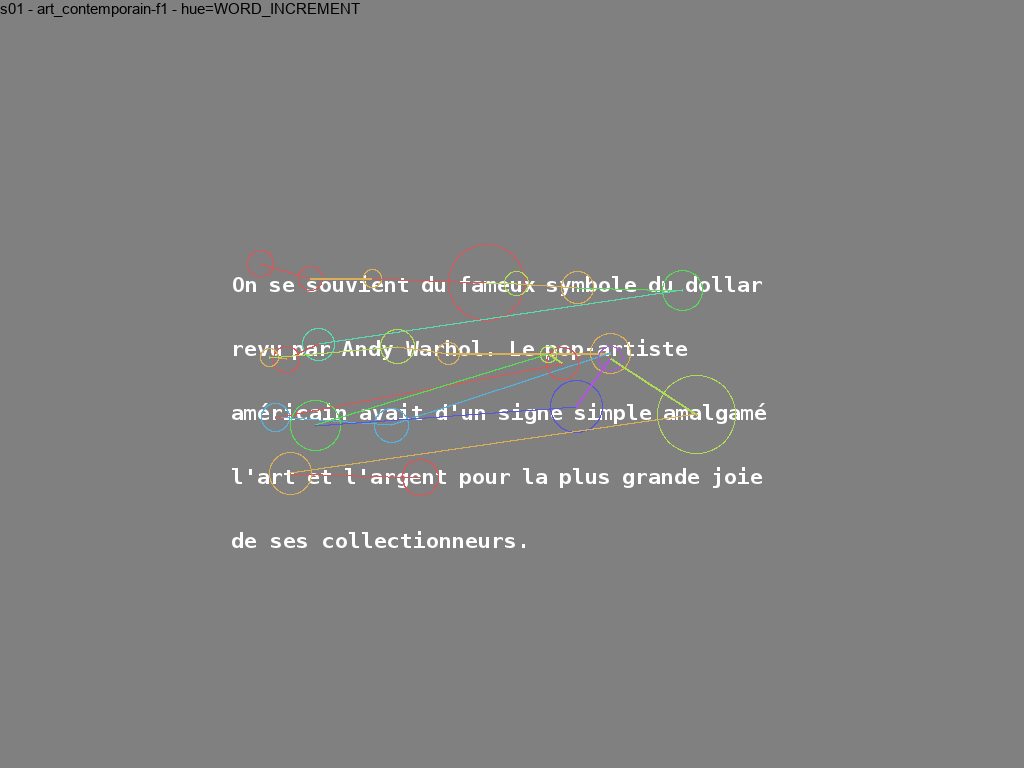
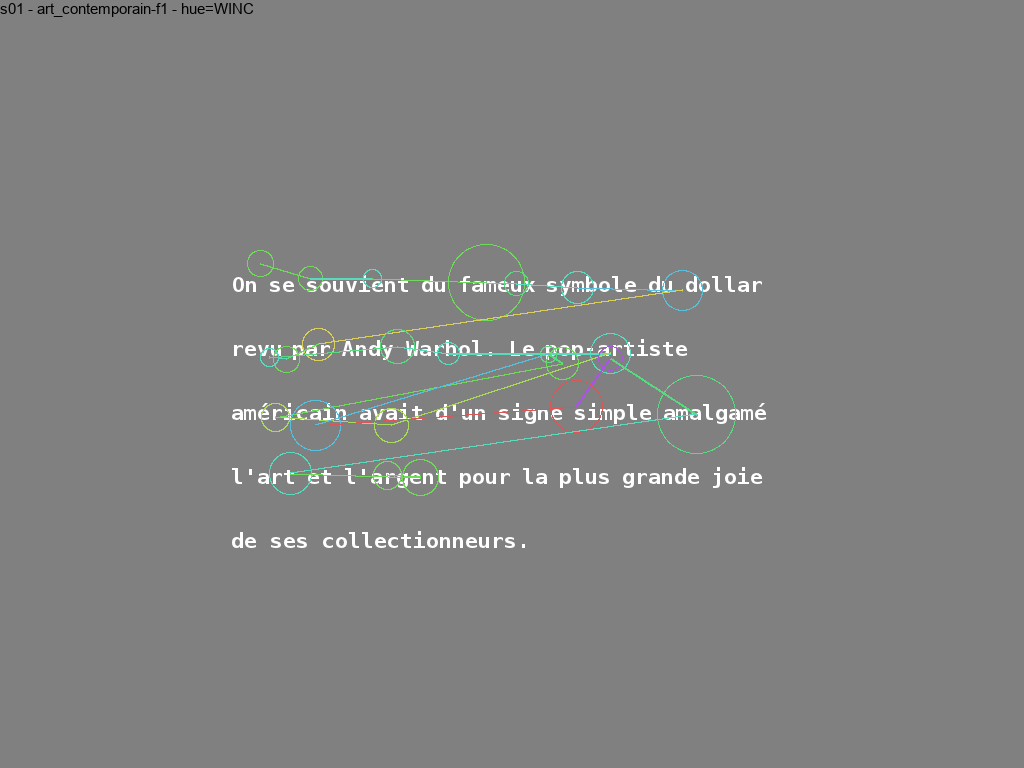
+: arch rework, new pkg name.

diff --git a/sample/plot_annotated_scanpath.py b/sample/plot_annotated_scanpath.py
@@ -11,8 +11,8 @@ def plot_mono_annotated_scanpath(dataframe, output_file=None):
     if output_file is not None:
         display = False
     visuscanpath.plot_scanpath(dataframe, 's01', 'art_contemporain-f1',
-                               os.path.join('..', 'images', 'art_contemporain-f1.png'),
-                               print_col='WORD_INCREMENT', output_file=output_file, display=display)
+                               os.path.join('images', 'art_contemporain-f1.png'),
+                               print_col='WINC', output_file=output_file, display=display)
 
 
 def plot_pluri_annotated_scanpath(dataframe, output_file=None):
@@ -20,15 +20,17 @@ def plot_pluri_annotated_scanpath(dataframe, output_file=None):
     if output_file is not None:
         display = False
     visuscanpath.plot_scanpath(dataframe, 's01', 'art_contemporain-f1',
-                               os.path.join('..', 'images', 'art_contemporain-f1.png'),
-                               print_col=['WORD_INCREMENT', 'CHARACTER_INCREMENT'],
+                               os.path.join('images', 'art_contemporain-f1.png'),
+                               print_col=['WINC', 'CINC'],
                                output_file=output_file, display=display)
 
 
 def main():
-    dataframe = pandas.read_csv(os.path.join('..', 'data', 'text_reading.csv'))
-    plot_mono_annotated_scanpath(dataframe, output_file='scanpaths/s01-art_contemporain-f1-mono-annotated.png')
-    plot_pluri_annotated_scanpath(dataframe, output_file='scanpaths/s01-art_contemporain-f1-pluri-annotated.png')
+    dataframe = pandas.read_csv(os.path.join('data', 'text_reading.csv'))
+    plot_mono_annotated_scanpath(dataframe, output_file=os.path.join('scanpaths',
+																	 's01-art_contemporain-f1-mono-annotated.png'))
+    plot_pluri_annotated_scanpath(dataframe, output_file=os.path.join('scanpaths',
+																	  's01-art_contemporain-f1-pluri-annotated.png'))
 
 if __name__ == '__main__':
     main()

diff --git a/sample/plot_annotated_hue_scanpath.py b/sample/plot_annotated_hue_scanpath.py
@@ -7,18 +7,19 @@ import visuscanpath
 
 
 def plot_annotated_hue_scanpath(output_file=None):
-    dataframe = pandas.read_csv(os.path.join('..', 'data', 'text_reading.csv'))
+    dataframe = pandas.read_csv(os.path.join('data', 'text_reading.csv'))
     display = True
     if output_file is not None:
         display = False
-    visuscanpath.plot_scanpath(dataframe, 's01', 'art_contemporain-f1',
-                               os.path.join('..', 'images', 'art_contemporain-f1.png'),
-                               print_col='CHARACTER_INCREMENT', hue='WORD_INCREMENT',
+    visuscanpath.plot_scanpath(dataframe, 's01', 'art_contemporain-f2',
+                               os.path.join('images', 'art_contemporain-f2.png'),
+                               print_col='WINC', hue='PHASE',
                                output_file=output_file, display=display)
 
 
 def main():
-    plot_annotated_hue_scanpath(output_file='scanpaths/s01-art_contemporain-f1-pluri-annotated-hue.png')
+    plot_annotated_hue_scanpath(output_file=os.path.join('scanpaths',
+                                                         's01-art_contemporain-f2-pluri-annotated-hue.png'))
 
 if __name__ == '__main__':
     main()

diff --git a/sample/plot_hue_scanpath.py b/sample/plot_hue_scanpath.py
@@ -7,17 +7,17 @@ import visuscanpath
 
 
 def plot_raw_scanpath(output_file=None):
-    dataframe = pandas.read_csv(os.path.join('..', 'data', 'text_reading.csv'))
+    dataframe = pandas.read_csv(os.path.join('data', 'text_reading.csv'))
     display = True
     if output_file is not None:
         display = False
     visuscanpath.plot_scanpath(dataframe, 's01', 'art_contemporain-f1',
-                               os.path.join('..', 'images', 'art_contemporain-f1.png'),
-                               hue='WORD_INCREMENT', output_file=output_file, display=display)
+                               os.path.join('images', 'art_contemporain-f1.png'),
+                               hue='WINC', output_file=output_file, display=display)
 
 
 def main():
-    plot_raw_scanpath(output_file='scanpaths/s01-art_contemporain-f1-hue.png')
+    plot_raw_scanpath(output_file=os.path.join('scanpaths', 's01-art_contemporain-f1-hue.png'))
 
 if __name__ == '__main__':
     main()

diff --git a/setup.py b/setup.py
@@ -8,18 +8,19 @@ from setuptools import setup
 def read(fname):
     return open(os.path.join(os.path.dirname(__file__), fname)).read()
 
+
 with open('requirements.txt') as f:
     requirements = f.read().splitlines()
 
-setup(name='VisuScanpath',
-      version='0.1a0',
-      description='Python tool for displaying a scanpath, a set of fixations and'
-                  ' saccades, and annotating and/or coloring fixations',
+setup(name='visu-scanpath',
+      version='0.2a0',
+      description='Python tool for displaying a scanpath,'
+      'a set of fixations and saccades,'
+      ' with annotations and/or coloring fixations',
       install_requires=requirements,
       author='Brice Olivier',
       author_email='briceolivier1409@gmail.com',
       url='https://github.com/brice-olivier/',
       packages=['visuscanpath'],
       license=read('LICENSE'),
-      long_description=read('README.md')
-)
+      long_description=read('README.md'))

diff --git a/sample/plot_raw_scanpath.py b/sample/plot_raw_scanpath.py
@@ -7,17 +7,17 @@ import visuscanpath
 
 
 def plot_raw_scanpath(output_file=None):
-    dataframe = pandas.read_csv(os.path.join('..', 'data', 'text_reading.csv'))
+    dataframe = pandas.read_csv(os.path.join('data', 'text_reading.csv'))
     display = True
     if output_file is not None:
         display = False
     visuscanpath.plot_scanpath(dataframe, 's01', 'art_contemporain-f1',
-                               os.path.join('..', 'images', 'art_contemporain-f1.png'),
+                               os.path.join('images', 'art_contemporain-f1.png'),
                                output_file=output_file, display=display)
 
 
 def main():
-    plot_raw_scanpath(output_file='scanpaths/s01-art_contemporain-f1.png')
+    plot_raw_scanpath(output_file=os.path.join('scanpaths', 's01-art_contemporain-f1.png'))
 
 if __name__ == '__main__':
     main()

diff --git a/visuscanpath/__init__.py b/visuscanpath/__init__.py
@@ -1,5 +1,7 @@
 # -*- coding: utf-8 -*-
 __author__ = 'Brice Olivier'
 
-from visuscanpath.config import *
-from visuscanpath.plot_scanpath import *
+from .config import (X_COL, Y_COL, SUBJECT_COL, TEXT_NAME_COL, FIXATION_DURATION_COL,
+					 COLOR_LIGHTNESS, COLOR_SATURATION, RADIUS_SCALE, LINE_WIDTH, FONT_SIZE)
+
+from .plot_scanpath import plot_scanpath

diff --git a/visuscanpath/config.py b/visuscanpath/config.py
@@ -3,9 +3,9 @@ __author__ = 'Brice Olivier'
 
 X_COL = 'X'
 Y_COL = 'Y'
-SUBJECT_COL = 'SUBJECT'
-TEXT_NAME_COL = 'TEXT_NAME'
-FIXATION_DURATION_COL = 'FIXATION_DURATION'
+SUBJECT_COL = 'SUBJ_NAME'
+TEXT_NAME_COL = 'TEXT'
+FIXATION_DURATION_COL = 'FDUR'
 
 COLOR_LIGHTNESS = 60
 COLOR_SATURATION = 65

diff --git a/README.md b/README.md
@@ -1,11 +1,11 @@
-# VisuScanpath
+# visu-scanpath
 
 ## Installation
 
 ```bash
-git clone https://github.com/brice-olivier/VisuScanpath.git
-cd VisuScanpath
-python setup.py install
+git clone https://github.com/brice-olivier/visu-scanpath.git
+cd visu-scanpath
+sudo python setup.py install --user
 ```
 
 ## Usage
@@ -15,9 +15,9 @@ import os
 import pandas
 import visuscanpath
 
-dataframe = pandas.read_csv(os.path.join('data', 'text_reading.csv'))
+dataframe = pandas.read_csv(os.path.join('sample', 'data', 'text_reading.csv'))
 visuscanpath.plot_scanpath(dataframe, 's01', 'art_contemporain-f1',
-                           os.path.join('images', 'art_contemporain-f1.png'))
+                           os.path.join('sample', 'images', 'art_contemporain-f1.png'))
 ```
 
 Output: ![N/A](sample/scanpaths/s01-art_contemporain-f1.png)
@@ -28,14 +28,14 @@ import os
 import pandas
 import visuscanpath
 
-dataframe = pandas.read_csv(os.path.join('data', 'text_reading.csv'))
-visuscanpath.plot_scanpath(dataframe, 's01', 'art_contemporain-f1',
-                           os.path.join('images', 'art_contemporain-f1.png'),
+dataframe = pandas.read_csv(os.path.join('sample', 'data', 'text_reading.csv'))
+visuscanpath.plot_scanpath(dataframe, 's01', 'art_contemporain-f2',
+                           os.path.join('sample', 'images', 'art_contemporain-f1.png'),
                            print_col='CHARACTER_INCREMENT', hue='WORD_INCREMENT')
 
 ```
 
-Output: ![N/A](sample/scanpaths/s01-art_contemporain-f1-pluri-annotated-hue.png)
+Output: ![N/A](sample/scanpaths/s01-art_contemporain-f2-pluri-annotated-hue.png)
 
 ### Setting custom dataframe column names
 ```python
@@ -44,4 +44,4 @@ visuscanpath.config.FIXATION_DURATION_COL = 'FDUR'
 visuscanpath.config.SUBJECT_COL = 'SUBJ'
 ```
 
-See [config.py](visuscanpath/config.py) for more customization.
+See [visuscanpath/config.py](visuscanpath/config.py) for more customization.
